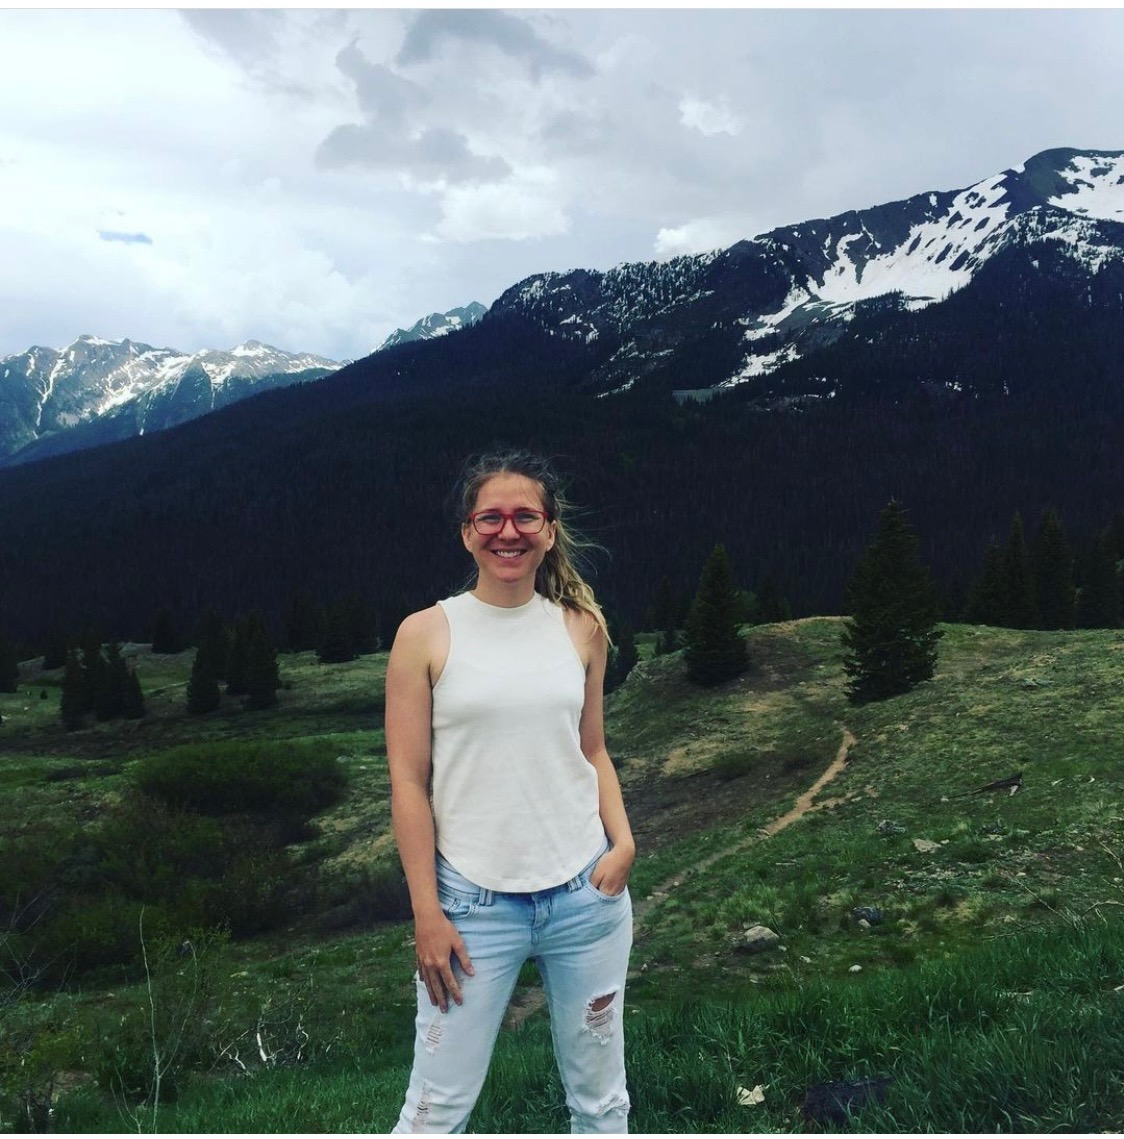
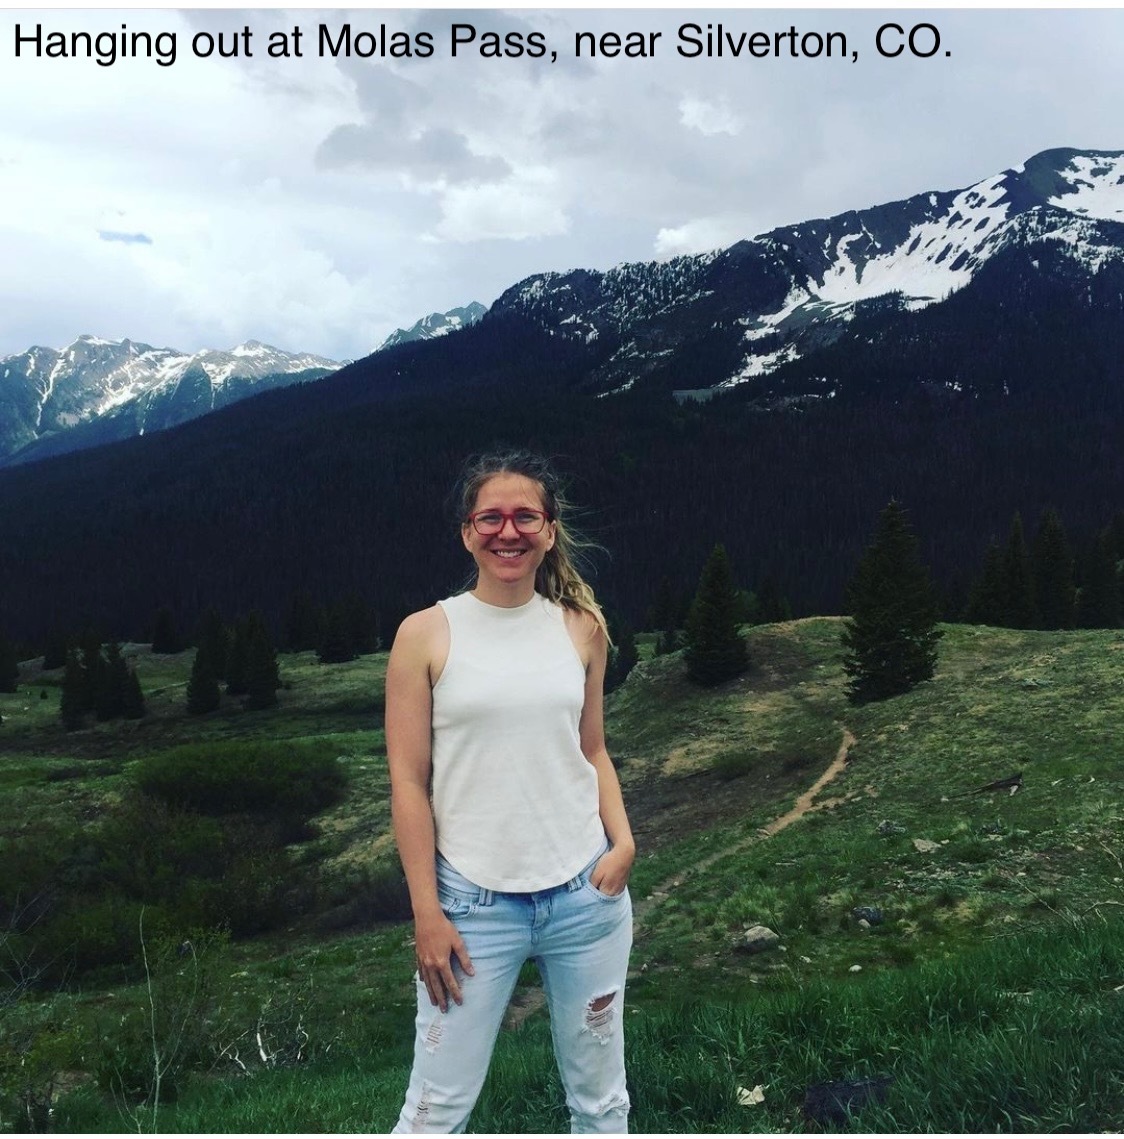
adding image captions

Changed region(s): [[0.0, 0.0, 0.8407, 0.0615]]

diff --git a/current_projects.html b/current_projects.html
@@ -291,16 +291,15 @@ $(document).ready(function () {
 
 
 <hr />
-<p><img src="images/mailman.png" style="width:50%; display: block; margin: 0 auto"></p>
-<p><br></p>
+<p><img src="images/mailman.png" style="width:35%; display: block; margin: 0 auto"> <br></p>
 <div id="traffic-related-air-pollution" class="section level4">
 <h4><strong>Traffic-Related Air Pollution</strong></h4>
 <p>Air pollution from traffic is a pernicious exposure globally, and has been tied to numerous negative health outcomes. I am interested in studying the impact of policies (such as stay-at-home orders, or road tolls) or events (the opening of a warehouse) on traffic, traffic-related air pollution, and health outcomes. In particular, it is critical to evaluate how changes in traffic impact disadvantaged communities and to partner with communities to collect hyper-local data and investigate traffic and air pollution changes in response to municipal policies.</p>
-<p><img src="images/Jenni_install_radar1.png" style="width:35%" ALIGN="right" HSPACE="40" VSPACE="10" /></p>
+<p><img src="images/Jenni_install_radar1.png" style="width:30%" ALIGN="right" HSPACE="15" VSPACE="5"></p>
 <div id="the-south-bronx" class="section level6">
 <h6><em>The South Bronx</em></h6>
 <p>Partnering with <a href="https://www.southbronxunite.org">South Bronx Unite</a>, we are actively monitoring traffic and air pollution in the Mott Haven and Port Morris communities. Continued industrial development in these neighborhoods has increased traffic, potentially contributing to the already high burden of childhood asthma. For this project, we aim to: (1) measure traffic changes over time, (2) assess traffic related air pollution, and (3) increase capacity for community monitoring.</p>
-<p><img src="images/SBU_01182020_presentation_picture.jpg" style="width:35%" HSPACE="40" VSPACE="10" /></p>
+<p><img src="images/SBU_01182020_presentation_picture.jpg" style="width:45%" HSPACE="40" VSPACE="10" /></p>
 <ul>
 <li>Select Publications:
 <ul>

diff --git a/fun.html b/fun.html
@@ -291,11 +291,11 @@ $(document).ready(function () {
 
 
 <hr />
-<p><img src="images/molas_pass.jpeg" style="width:20%" HSPACE="40" VSPACE="10" ALIGN="left"/></p>
+<p><img src="images/molas_pass.jpeg" style="width:30%" HSPACE="20" VSPACE="10" ALIGN="left"/></p>
 <div id="about-me" class="section level4">
 <h4>About Me</h4>
 <p>I’m originally from a small town in the San Juan Mountains of Colorado called <a href="https://visitpagosasprings.com/index.php">Pagosa Springs</a>, which is home to some really beautiful hot springs (the deepest known in the world!). I enjoy hiking the mountains and exploring nature - if you find yourself in CO, and driving through I-70, I recommend stopping to hike <a href="https://www.fs.usda.gov/recarea/whiteriver/recarea/?recid=41225">Hanging Lake</a>!</p>
-<p><img src="images/flowers.png" style="width:25%" ALIGN="right" HSPACE="40" VSPACE="10" /></p>
+<p><img src="images/flowers.png" style="width:35%" ALIGN="right" HSPACE="20" VSPACE="10" /></p>
 <p><br></p>
 <p>In our spare time, my partner and I enjoy growing flowers on our terrace. This year we’ve expanded the variety and types of flowers and plants - although vining mandevilla may be our favorite.</p>
 <p><br></p>
